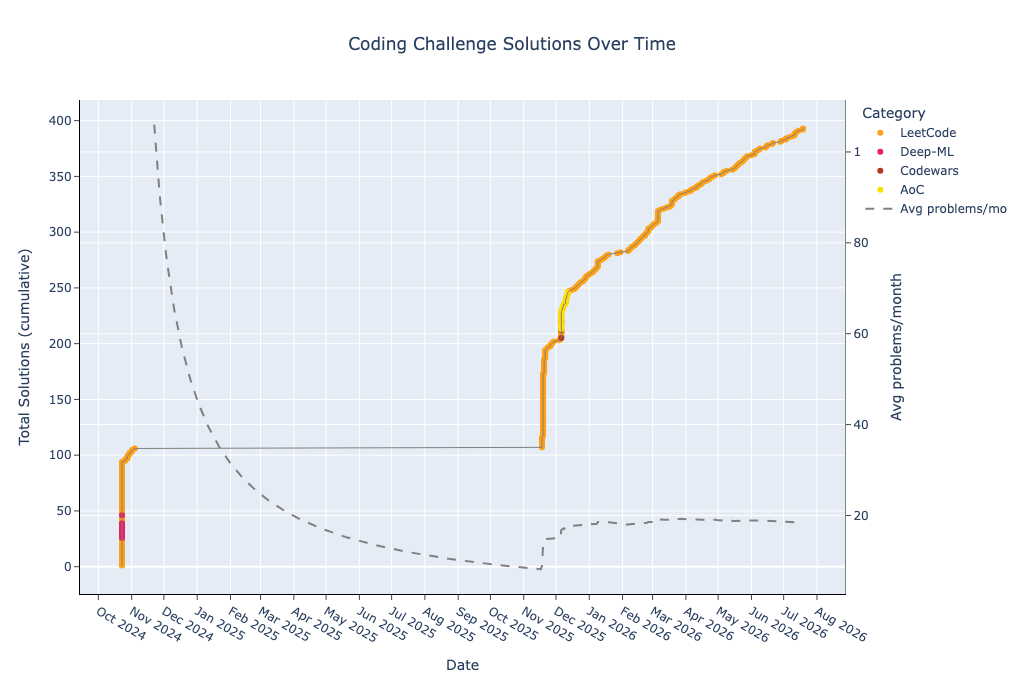
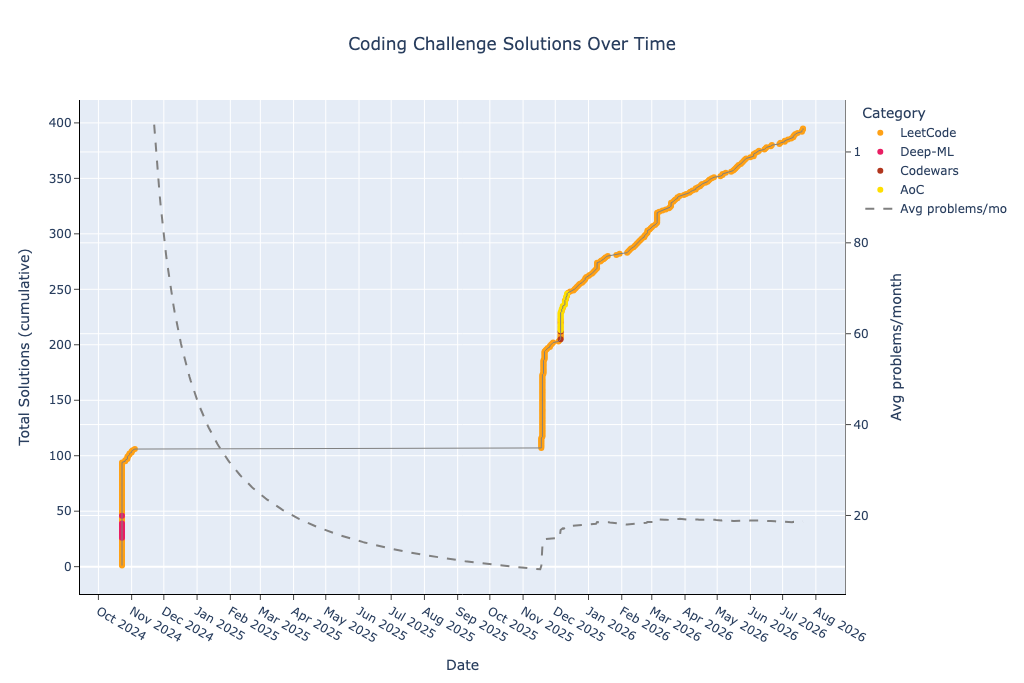
Regenerate README

diff --git a/README.md b/README.md
@@ -35,7 +35,7 @@ This repository contains a collection of coding problems solved on various platf
 | codewars-kyu-5 | 1 | 19 | 19 | 2 | 0 | 2 | 1 | 0 | 0 | 0 | 2 | 0 | 0 | 0 | 0 | 0 | 0 | 0 |
 | deep-ml-easy | 9 | 72 | 8 | 10 | 0 | 2 | 13 | 0 | 0 | 0 | 12 | 3 | 0 | 0 | 0 | 0 | 0 | 0 |
 | deep-ml-medium | 5 | 69 | 13 | 5 | 0 | 1 | 7 | 0 | 0 | 0 | 8 | 2 | 0 | 0 | 0 | 0 | 0 | 0 |
-| leetcode-easy | 125 | 2019 | 16 | 168 | 6 | 166 | 161 | 43 | 6 | 14 | 203 | 4 | 5 | 15 | 1 | 0 | 12 | 0 |
+| leetcode-easy | 126 | 2051 | 16 | 172 | 6 | 167 | 162 | 44 | 6 | 15 | 206 | 4 | 6 | 15 | 1 | 0 | 12 | 0 |
 | leetcode-medium | 193 | 4981 | 25 | 342 | 7 | 501 | 373 | 113 | 22 | 46 | 419 | 6 | 40 | 62 | 11 | 28 | 27 | 7 |
 | leetcode-hard | 36 | 1150 | 31 | 66 | 5 | 109 | 98 | 24 | 11 | 17 | 83 | 3 | 7 | 15 | 8 | 5 | 9 | 9 |
 
@@ -47,6 +47,8 @@ Recently solved and added problems.
 
 | Date | Type | Challenge | Solution Code | Problem Link |
 | --- | --- | --- | --- | --- |
+| 2026-07-20 | LeetCode Medium | Sum of GCD of Formed Pairs | [python](leetcode/medium/3867.%20Sum%20of%20GCD%20of%20Formed%20Pairs.py) | [leetcode.com](https://leetcode.com/problems/sum-of-gcd-of-formed-pairs/) |
+| 2026-07-20 | LeetCode Easy | Shift 2D Grid | [python](leetcode/easy/1260.%20Shift%202D%20Grid.py) | [leetcode.com](https://leetcode.com/problems/shift-2d-grid/) |
 | 2026-07-19 | LeetCode Medium | Smallest Subsequence of Distinct Characters | [python](leetcode/medium/1081.%20Smallest%20Subsequence%20of%20Distinct%20Characters.py) | [leetcode.com](https://leetcode.com/problems/smallest-subsequence-of-distinct-characters/) |
 | 2026-07-19 | LeetCode Easy | Find Greatest Common Divisor of Array | [python](leetcode/easy/1979.%20Find%20Greatest%20Common%20Divisor%20of%20Array.py) | [leetcode.com](https://leetcode.com/problems/find-greatest-common-divisor-of-array/) |
 | 2026-07-15 | LeetCode Easy | GCD of Odd and Even Sums | [python](leetcode/easy/3658.%20GCD%20of%20Odd%20and%20Even%20Sums.py) | [leetcode.com](https://leetcode.com/problems/gcd-of-odd-and-even-sums/) |
@@ -55,8 +57,6 @@ Recently solved and added problems.
 | 2026-07-11 | LeetCode Hard | Path Existence Queries in a Graph II | [python](leetcode/hard/3534.%20Path%20Existence%20Queries%20in%20a%20Graph%20II.py) | [leetcode.com](https://leetcode.com/problems/path-existence-queries-in-a-graph-ii/) |
 | 2026-07-11 | LeetCode Medium | Count the Number of Complete Components | [python](leetcode/medium/2685.%20Count%20the%20Number%20of%20Complete%20Components.py) | [leetcode.com](https://leetcode.com/problems/count-the-number-of-complete-components/) |
 | 2026-07-09 | LeetCode Medium | Path Existence Queries in a Graph I | [python](leetcode/medium/3532.%20Path%20Existence%20Queries%20in%20a%20Graph%20I.py) | [leetcode.com](https://leetcode.com/problems/path-existence-queries-in-a-graph-i/) |
-| 2026-07-06 | LeetCode Medium | Remove Covered Intervals | [python](leetcode/medium/1288.%20Remove%20Covered%20Intervals.py) | [leetcode.com](https://leetcode.com/problems/remove-covered-intervals/) |
-| 2026-07-03 | LeetCode Hard | Network Recovery Pathways | [python](leetcode/hard/3620.%20Network%20Recovery%20Pathways.py) | [leetcode.com](https://leetcode.com/problems/network-recovery-pathways/) |
 # Advent of Code
 ### 2025
 | Day | Challenge | Time Complexity | Space Complexity | Solution Code | Problem Link |
@@ -160,6 +160,7 @@ Recently solved and added problems.
 | 1133 | Largest Unique Number | O(n log n) | O(1) | [python](leetcode/easy/1133.%20Largest%20Unique%20Number.py) | [leetcode.com](https://leetcode.com/problems/largest-unique-number/) |
 | 1137 | N-th Tribonacci Number | O(n) | O(1) | [python](leetcode/easy/1137.%20N-th%20Tribonacci%20Number.py) | [leetcode.com](https://leetcode.com/problems/n-th-tribonacci-number/) |
 | 1200 | Minimum Absolute Difference | O(n) | O(1) | [python](leetcode/easy/1200.%20Minimum%20Absolute%20Difference.py) | [leetcode.com](https://leetcode.com/problems/minimum-absolute-difference/) |
+| 1260 | Shift 2D Grid | O(n * m) | O(n * m) | [python](leetcode/easy/1260.%20Shift%202D%20Grid.py) | [leetcode.com](https://leetcode.com/problems/shift-2d-grid/) |
 | 1266 | Minimum Time Visiting All Points | O(n) | O(1) | [python](leetcode/easy/1266.%20Minimum%20Time%20Visiting%20All%20Points.py) | [leetcode.com](https://leetcode.com/problems/minimum-time-visiting-all-points/) |
 | 1304 | Find N Unique Integers Sum up to Zero | O(n) | O(1) | [python](leetcode/easy/1304.%20Find%20N%20Unique%20Integers%20Sum%20up%20to%20Zero.py) | [leetcode.com](https://leetcode.com/problems/find-n-unique-integers-sum-up-to-zero/) |
 | 1317 | Convert Integer to the Sum of Two No-Zero Integers | O(n) | O(1) | [python](leetcode/easy/1317.%20Convert%20Integer%20to%20the%20Sum%20of%20Two%20No-Zero%20Integers.py) | [leetcode.com](https://leetcode.com/problems/convert-integer-to-the-sum-of-two-no-zero-integers/) |

diff --git a/CHANGES.md b/CHANGES.md
@@ -6,6 +6,8 @@ Recently solved and added problems.
 
 | Date | Type | Challenge | Solution Code | Problem Link |
 | --- | --- | --- | --- | --- |
+| 2026-07-20 | LeetCode Medium | Sum of GCD of Formed Pairs | [python](leetcode/medium/3867.%20Sum%20of%20GCD%20of%20Formed%20Pairs.py) | [leetcode.com](https://leetcode.com/problems/sum-of-gcd-of-formed-pairs/) |
+| 2026-07-20 | LeetCode Easy | Shift 2D Grid | [python](leetcode/easy/1260.%20Shift%202D%20Grid.py) | [leetcode.com](https://leetcode.com/problems/shift-2d-grid/) |
 | 2026-07-19 | LeetCode Medium | Smallest Subsequence of Distinct Characters | [python](leetcode/medium/1081.%20Smallest%20Subsequence%20of%20Distinct%20Characters.py) | [leetcode.com](https://leetcode.com/problems/smallest-subsequence-of-distinct-characters/) |
 | 2026-07-19 | LeetCode Easy | Find Greatest Common Divisor of Array | [python](leetcode/easy/1979.%20Find%20Greatest%20Common%20Divisor%20of%20Array.py) | [leetcode.com](https://leetcode.com/problems/find-greatest-common-divisor-of-array/) |
 | 2026-07-15 | LeetCode Easy | GCD of Odd and Even Sums | [python](leetcode/easy/3658.%20GCD%20of%20Odd%20and%20Even%20Sums.py) | [leetcode.com](https://leetcode.com/problems/gcd-of-odd-and-even-sums/) |
@@ -14,5 +16,3 @@ Recently solved and added problems.
 | 2026-07-11 | LeetCode Hard | Path Existence Queries in a Graph II | [python](leetcode/hard/3534.%20Path%20Existence%20Queries%20in%20a%20Graph%20II.py) | [leetcode.com](https://leetcode.com/problems/path-existence-queries-in-a-graph-ii/) |
 | 2026-07-11 | LeetCode Medium | Count the Number of Complete Components | [python](leetcode/medium/2685.%20Count%20the%20Number%20of%20Complete%20Components.py) | [leetcode.com](https://leetcode.com/problems/count-the-number-of-complete-components/) |
 | 2026-07-09 | LeetCode Medium | Path Existence Queries in a Graph I | [python](leetcode/medium/3532.%20Path%20Existence%20Queries%20in%20a%20Graph%20I.py) | [leetcode.com](https://leetcode.com/problems/path-existence-queries-in-a-graph-i/) |
-| 2026-07-06 | LeetCode Medium | Remove Covered Intervals | [python](leetcode/medium/1288.%20Remove%20Covered%20Intervals.py) | [leetcode.com](https://leetcode.com/problems/remove-covered-intervals/) |
-| 2026-07-03 | LeetCode Hard | Network Recovery Pathways | [python](leetcode/hard/3620.%20Network%20Recovery%20Pathways.py) | [leetcode.com](https://leetcode.com/problems/network-recovery-pathways/) |